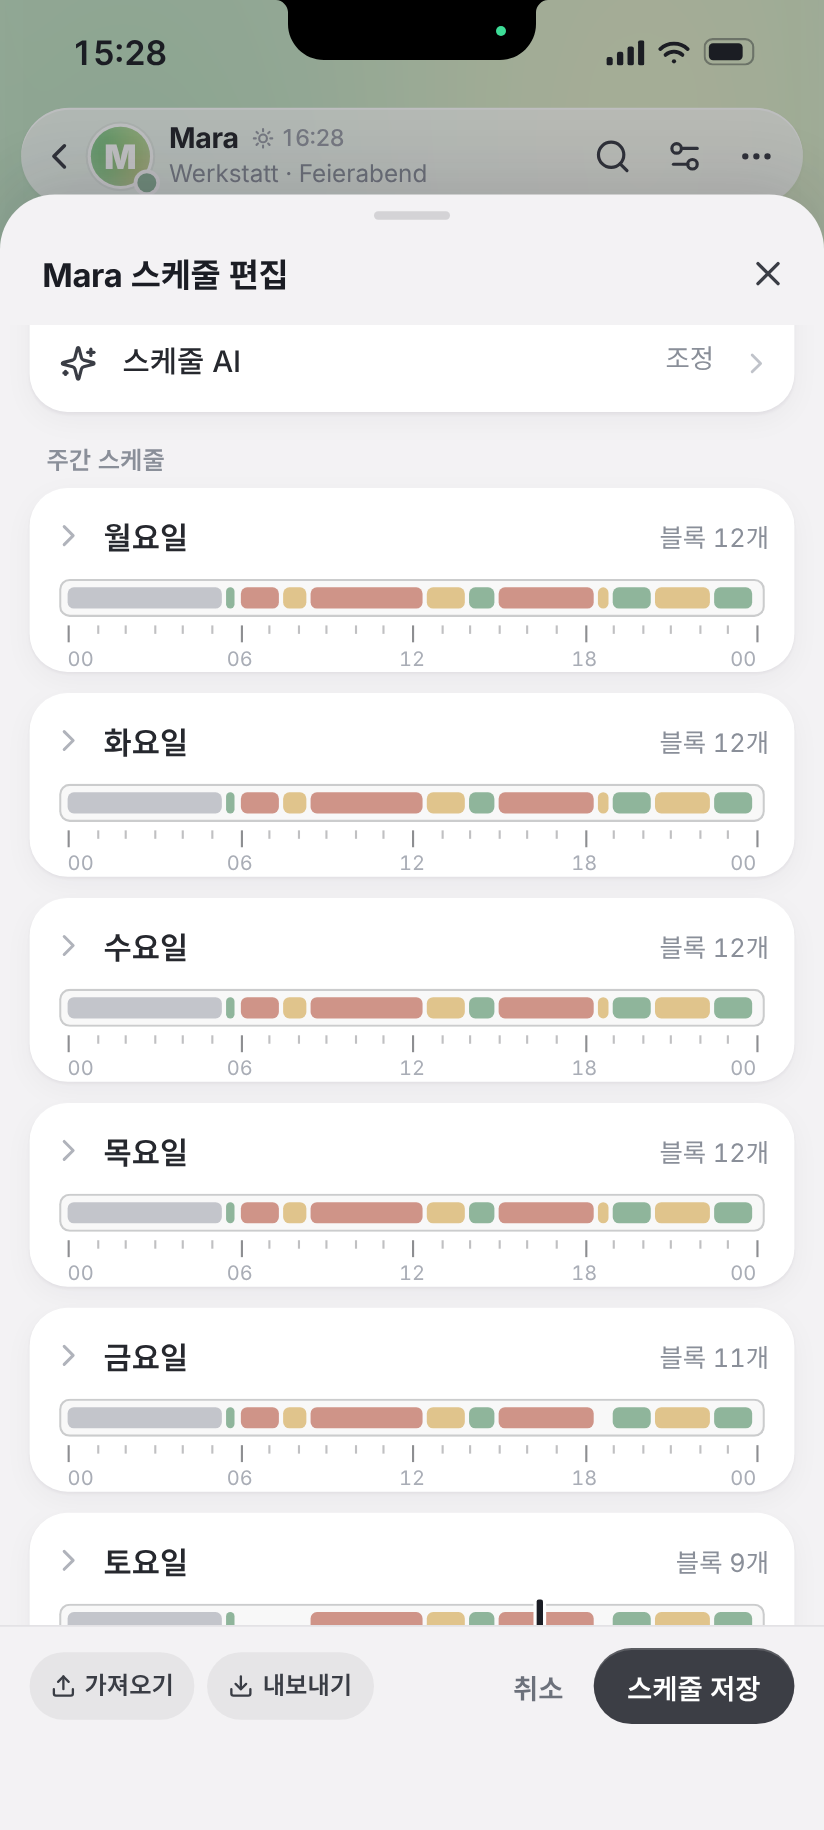
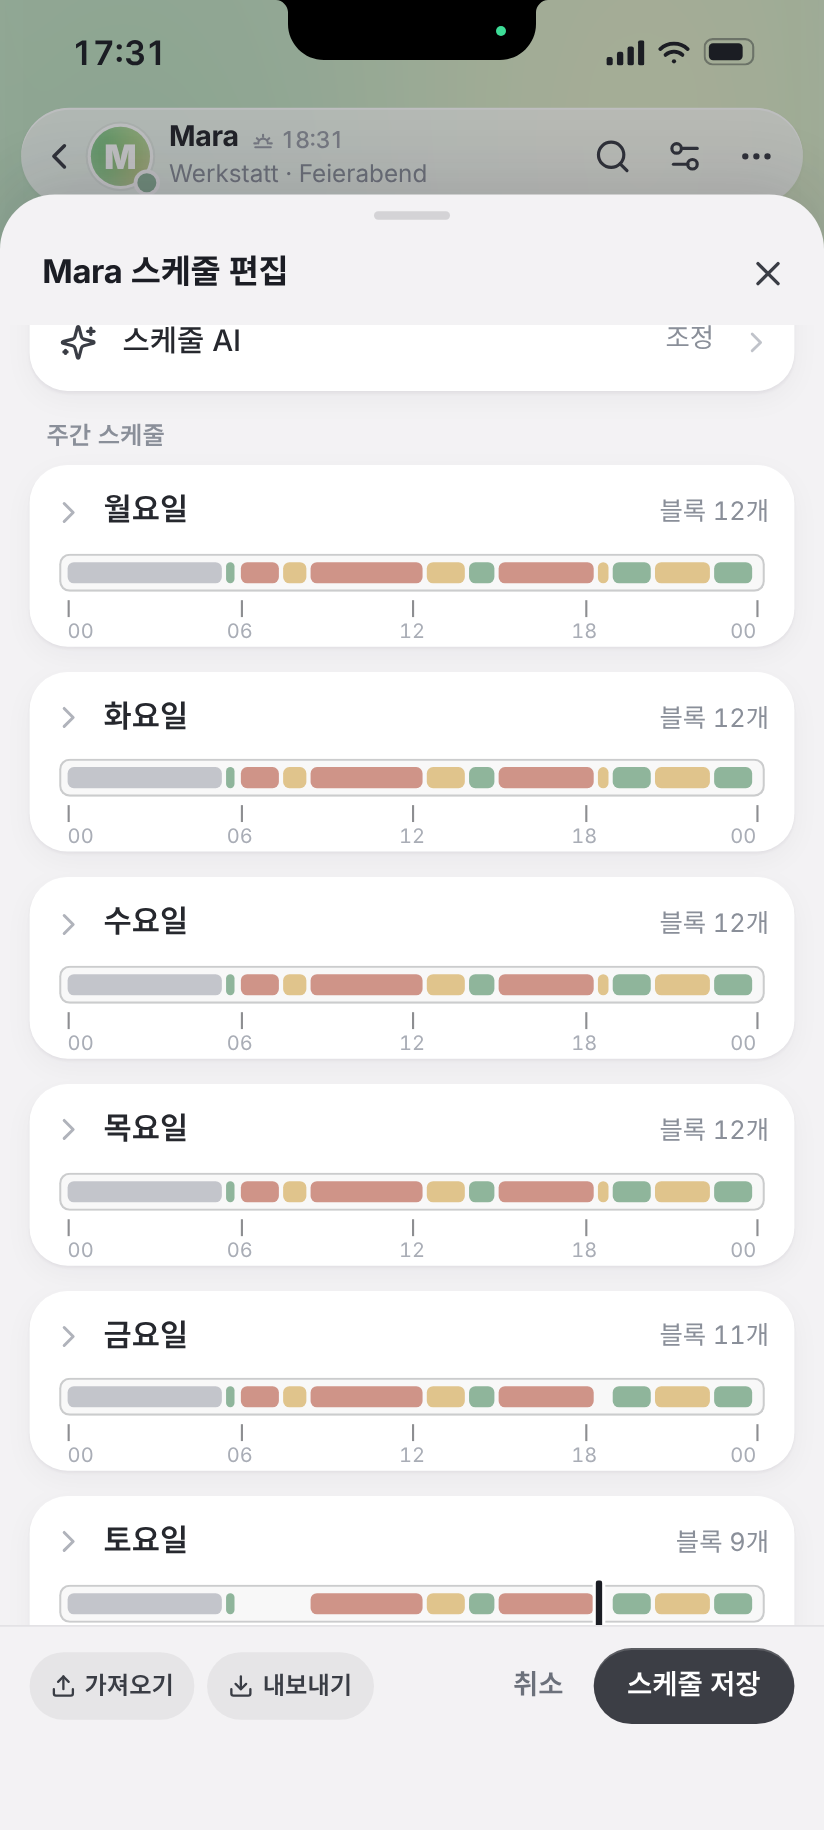
Orbit schedule ruler keeps only the 0 · 6 · 12 · 18 · 24 marks; hourly minor ticks removed
Claude-Session: https://claude.ai/code/session_01TBUyc4nvbfrUF2uL1hRtAL

diff --git a/src/phoneorbit.js b/src/phoneorbit.js
@@ -236,7 +236,7 @@ export function orbitRoom(p, now, o) {
         ${x.wait ? '<div class="now na_ob_soon" role="button" tabindex="0" aria-label="지금 답장">지금 답장</div>' : ''}`; }).join('')}</div>`;
     const C = o.sch, sched = (() => { if (!C) return '';
         const ed = (f, v, ph, at = '', st = '') => `contenteditable="true" role="textbox" enterkeyhint="done" spellcheck="false" data-f="${f}"${at} data-ph="${ph}"${st ? ` style="${st}"` : ''}>${esc(v)}`;
-        const bar = d => `<div class="bar">${d.segs.map(g => `<i class="${STC[g.st]}" style="left:calc(4px + (100% - 8px) * ${(g.a / 1440).toFixed(5)});width:max(2px, calc((100% - 8px) * ${((g.b - g.a) / 1440).toFixed(5)} - 2px))"></i>`).join('')}${d.now == null ? '' : `<b class="now" style="left:calc(4px + (100% - 8px) * ${(d.now / 1440).toFixed(5)})"></b>`}</div><div class="tk">${Array.from({ length: 25 }, (_, h) => `<u class="${h % 6 ? '' : 'M'}" style="left:${(h / 24 * 100).toFixed(3)}%"></u>`).join('')}${[0, 6, 12, 18, 24].map(h => `<div style="left:${h / 24 * 100}%">${String(h % 24).padStart(2, '0')}</div>`).join('')}${d.now == null ? '' : `<b class="nw" style="left:${(d.now / 1440 * 100).toFixed(3)}%"></b>`}</div>`;
+        const bar = d => `<div class="bar">${d.segs.map(g => `<i class="${STC[g.st]}" style="left:calc(4px + (100% - 8px) * ${(g.a / 1440).toFixed(5)});width:max(2px, calc((100% - 8px) * ${((g.b - g.a) / 1440).toFixed(5)} - 2px))"></i>`).join('')}${d.now == null ? '' : `<b class="now" style="left:calc(4px + (100% - 8px) * ${(d.now / 1440).toFixed(5)})"></b>`}</div><div class="tk">${[0, 6, 12, 18, 24].map(h => `<u class="M" style="left:${h / 24 * 100}%"></u>`).join('')}${[0, 6, 12, 18, 24].map(h => `<div style="left:${h / 24 * 100}%">${String(h % 24).padStart(2, '0')}</div>`).join('')}${d.now == null ? '' : `<b class="nw" style="left:${(d.now / 1440 * 100).toFixed(3)}%"></b>`}</div>`;
         const day = d => { const at = ` data-d="${d.key}"`;
             return `<div class="os_cd" style="margin-bottom:10px;overflow:visible"><div class="na_ss_day" role="button" tabindex="0"${at} aria-expanded="${d.open}"><div class="dh">${lu(d.open ? 'chevron-down' : 'chevron-right', 17)}<b>${d.name}</b><div class="n">블록 ${d.blocks.length}개</div></div>${bar(d)}</div>${!d.open ? '' : `<div class="gd"><div class="inl"><div class="fld" style="min-height:38px"><div class="v na_ss_in" ${ed('dguide', d.guide, '가이드: 저녁 식사 후 더 사교적으로', at, 'font-weight:400')}</div></div></div><button type="button" class="os_go na_ss_regen"${at} style="height:38px;padding:0 12px">${lu('refresh-cw', 12, 2.2)}재생성</button></div>
               ${d.blocks.map((b, i) => `<div class="blk" style="position:relative"><span class="pk na_ss_pk" role="button" tabindex="0"${at} data-i="${i}" aria-label="블록 상태 고르기"><i class="dot ${STC[b.st]}"></i>${lu('chevron-down', 13)}</span>${b.menu ? stMenu(b.st, 'na_ss_pick', `${at} data-i="${i}"`, 'left:10px;top:42px') : ''}<div class="tm na_ss_in" ${ed('time', b.time.replace('-', ' – '), '09:00 – 11:30', `${at} data-i="${i}"`)}</div><div class="ac na_ss_in" ${ed('act', b.act, STL[b.st], `${at} data-i="${i}"`)}</div><i role="button" tabindex="0" class="na_ss_del"${at} data-i="${i}" aria-label="블록 제거">${lu('x', 15)}</i></div>`).join('')}<div class="add na_ss_add" role="button" tabindex="0"${at}>${lu('plus', 15, 2.2)}블록 추가</div>`}</div>`; };

diff --git a/docs/design/orbit-marinara.md b/docs/design/orbit-marinara.md
@@ -103,7 +103,7 @@
 
 **부품:** 채팅 설정의 부품(시트 `os_sh` · 흰 카드 `os_cd` · 줄 `os_rw` · 탭 `os_sg` · 알약 단추 `os_go` · 큰 단추 `os_ok`)을 그대로 쓰고, 새 부품은 한 번씩만 정해요: 상태 점(온라인 초록 · 자리 비움 노랑 · 바쁨 붉은색 · 오프라인 회색, 전부 먼지 낀 색), 칩(켜짐 = 검정 알약 + ✓), 단계 막대, 하루 막대, 블록 줄, 고르는 줄(○ / ✓).
 
-**하루 막대(소망이 고른 모양 = 마리나라의 모양):** 가는 테를 두른 네모난 틀(둥글기 5px) 안에 네모난 블록들(둥글기 3px, 사이 2px). **알약을 줄줄이 이어 붙이지 않아요**(소망: "줄줄이 소시지 같아서 징그럽다". 알약 모양 자체가 금지인 게 아니라, 알약 여러 개가 한 줄로 이어지는 것이 문제예요. 단추 · 칩 · 탭의 알약은 그대로 써요), 그 아래 눈금자(1시간마다 짧은 눈금, 0 · 6 · 12 · 18 · 24는 길게 + 숫자), 오늘인 요일에만 지금 시각(틀을 가로지르는 세로 막대 + 눈금자의 세모). 마리나라는 지금 시각을 기기 시계로 찍어요(스케줄 시간대가 아님): 우리는 스케줄 시간대로 찍어요.
+**하루 막대(소망이 고른 모양 = 마리나라의 모양):** 가는 테를 두른 네모난 틀(둥글기 5px) 안에 네모난 블록들(둥글기 3px, 사이 2px). **알약을 줄줄이 이어 붙이지 않아요**(소망: "줄줄이 소시지 같아서 징그럽다". 알약 모양 자체가 금지인 게 아니라, 알약 여러 개가 한 줄로 이어지는 것이 문제예요. 단추 · 칩 · 탭의 알약은 그대로 써요), 그 아래 눈금자(0 · 6 · 12 · 18 · 24시에만 눈금 + 숫자. 1시간마다의 자잘한 눈금은 뺐어요, 소망), 오늘인 요일에만 지금 시각(틀을 가로지르는 세로 막대 + 눈금자의 세모). 마리나라는 지금 시각을 기기 시계로 찍어요(스케줄 시간대가 아님): 우리는 스케줄 시간대로 찍어요.
 
 **대화 상태 카드**(머리줄 이름을 누르면): 머리의 설정(자율 메시지 설정으로) · 새로 고침, 사람마다 얼굴 · 이름(+ "재정의" 배지) · "스케줄 따르는 중 | 수동 재정의 · 마지막 연락 N분 전", 상태 점 메뉴(온라인 · 자리 비움 · 바쁨 · 오프라인) + 활동 글(고치면 수동 재정의, 만료 없음) + 재정의 지우기, 스케줄 칸(배지 활성화됨 · 준비됨 · 꺼짐, 편집, "다음 · 오늘 · 시각" + 활동, "+N개 더 보기 / 숨기기", 펼친 줄을 누르면 그 요일을 펼쳐서 편집), 늦은 답을 기다리는 중이면 "지금 답장". 단체방은 사람마다 카드.
 
